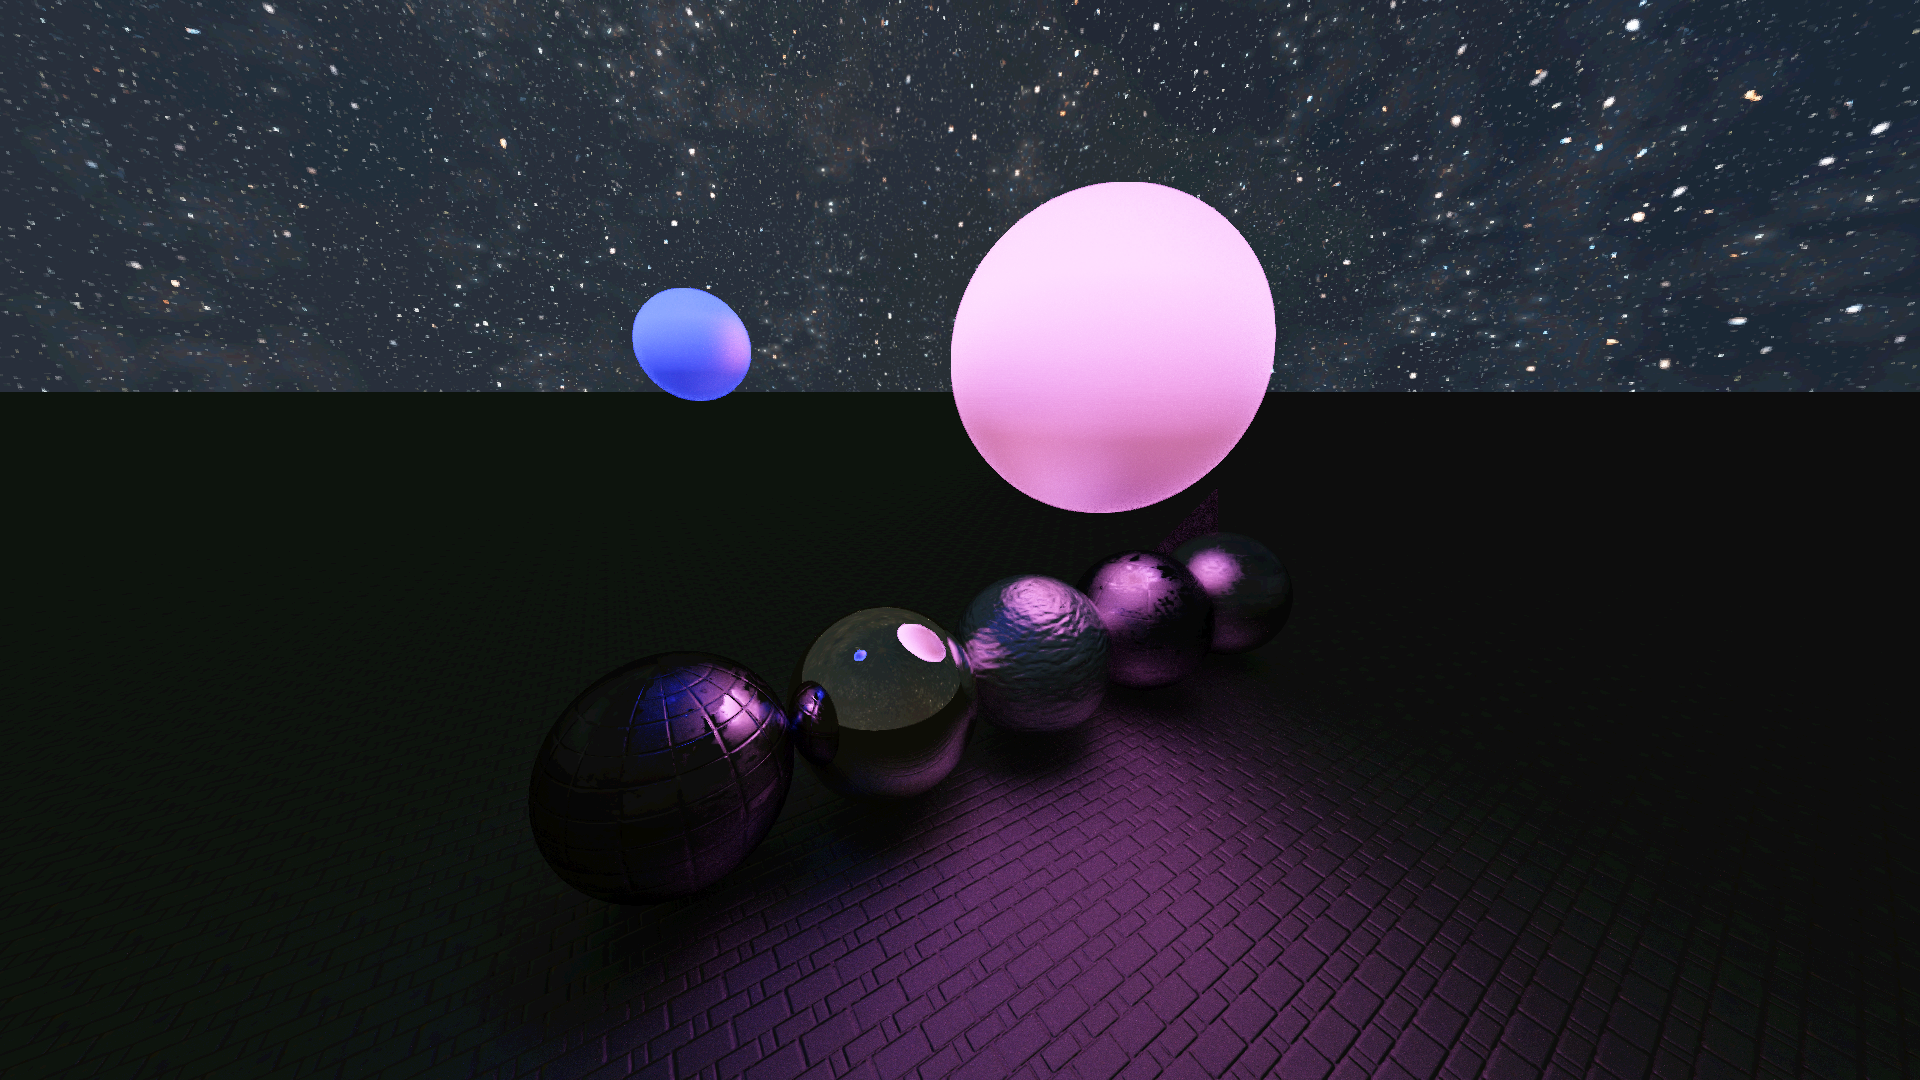
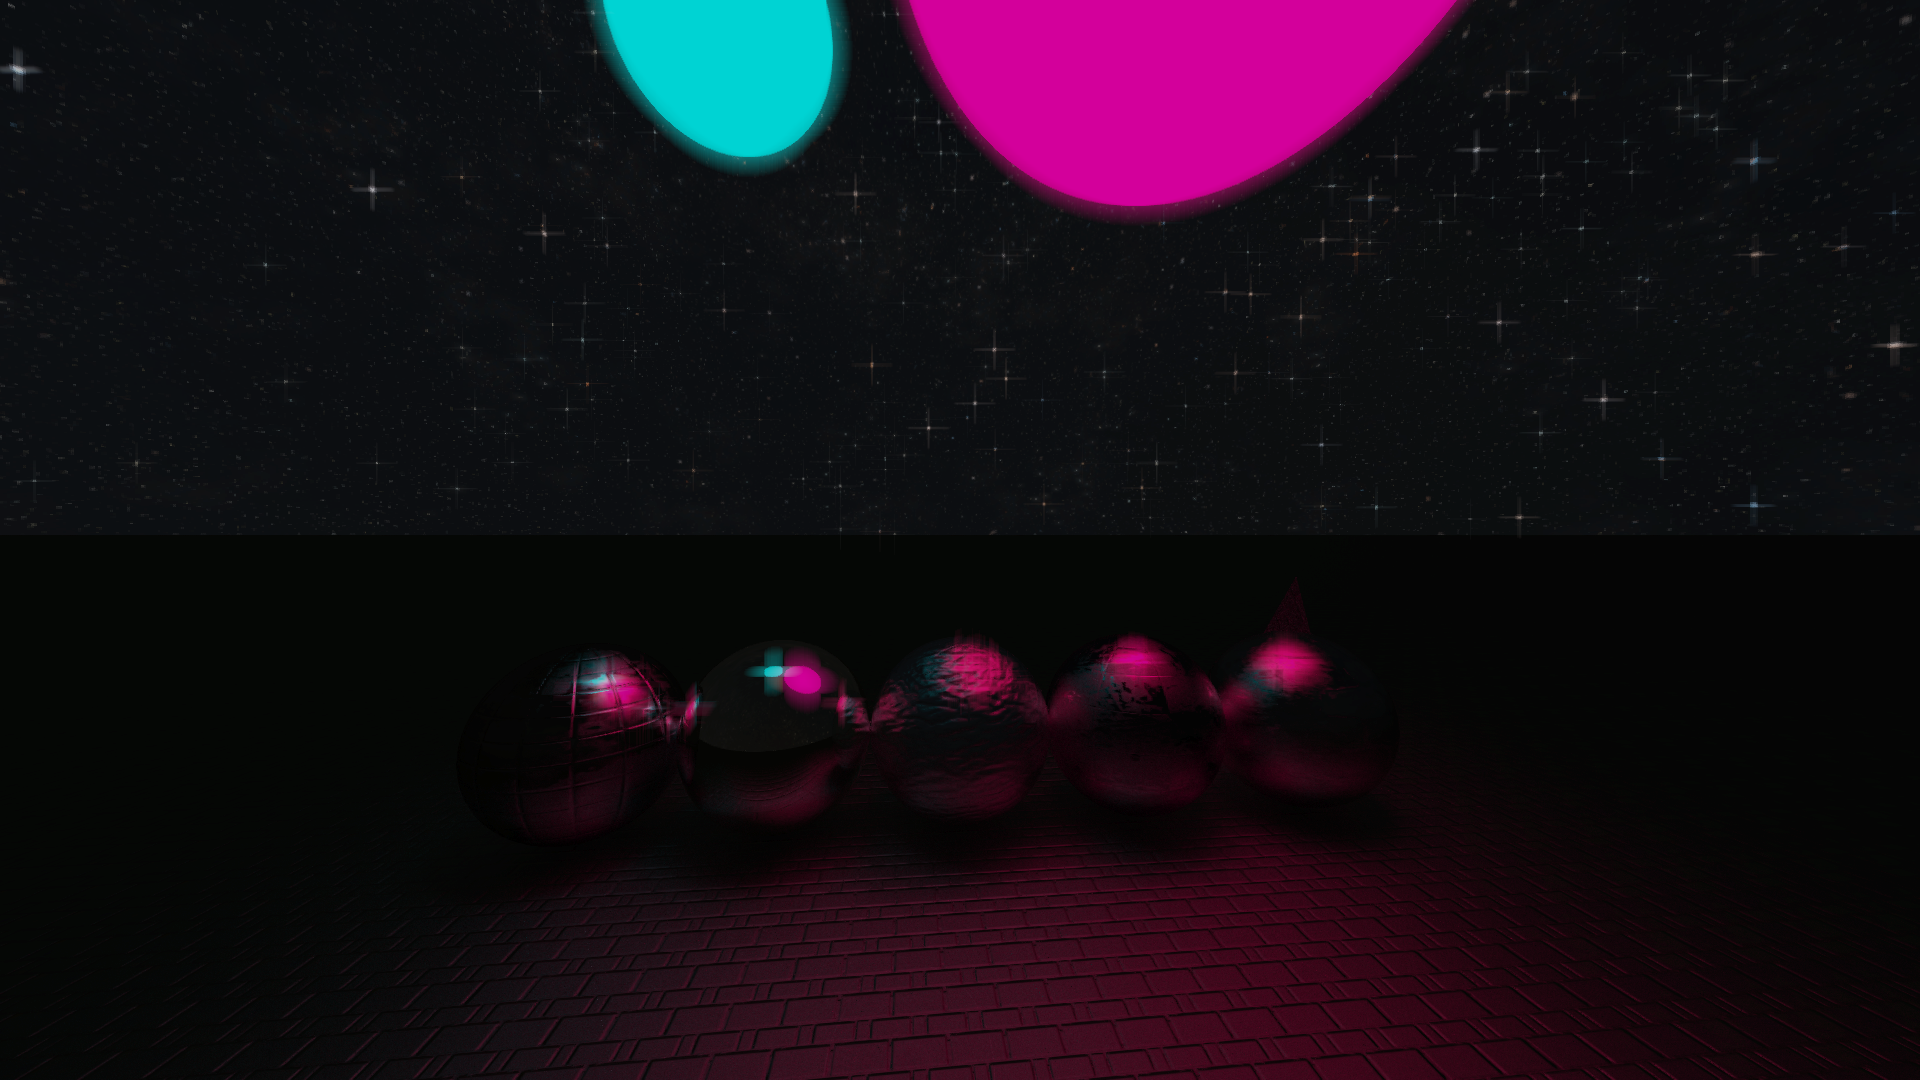
add blur

diff --git a/src/render.cpp b/src/render.cpp
@@ -35,6 +35,7 @@ namespace raytracing
   void render::clear()
   {
     mTexture.clear();
+    mBloomTexture.clear();
   }
 
   void render::draw(sf::RenderTarget* window)
@@ -46,7 +47,12 @@ namespace raytracing
     mTexture.draw(mRenderQuad, &mShader);
     mTexture.display();
 
+    mBloomShader.setUniform("renderedTexture", mTexture.getTexture());
+    mBloomTexture.draw(mRenderQuad, &mBloomShader);
+    mBloomTexture.display();
+
     mPostShader.setUniform("renderedTexture", mTexture.getTexture());
+    mPostShader.setUniform("bloomTexture", mBloomTexture.getTexture());
     window->draw(mRenderQuad, &mPostShader);
   }
 
@@ -54,9 +60,9 @@ namespace raytracing
   void render::resize(uint32_t width, uint32_t height)
   {
     if (!mTexture.resize({ width, height}))
-    {
-      std::cerr << "Failed to resize texture\n";
-    }
+      return;
+    if (!mBloomTexture.resize({ width, height}))
+      return;
     mShader.setUniform("windowSize", sf::Vector2f(static_cast<float>(width), static_cast<float>(height)));
     mShader.setUniform("halfHeight", rt::get()->mCamera.mHalfHeight);
     mShader.setUniform("halfWidth", rt::get()->mCamera.mHalfWidth);
@@ -141,6 +147,7 @@ namespace raytracing
 
     load_shader(&mShader, "./shaders/quad.vert", "./shaders/main.frag");
     load_shader(&mPostShader, "./shaders/quad.vert", "./shaders/post.frag");
+    load_shader(&mBloomShader, "./shaders/quad.vert", "./shaders/bloom.frag");
 
     return status::success;
   }

diff --git a/src/scene_serializer.cpp b/src/scene_serializer.cpp
@@ -107,6 +107,7 @@ namespace raytracing
 
           Material material {};
           material.albedo = materialNode["albedo"].as<glm::vec3>();
+          material.emissivity = materialNode["emissivity"].as<glm::vec3>();
           material.roughness = materialNode["roughness"].as<float>();
           material.textureIndex = materialNode["texture_id"].as<int>();
           material.normalTextureIndex = materialNode["normal_texture_id"].as<int>();
@@ -212,6 +213,7 @@ namespace raytracing
       {
         out << YAML::BeginMap;
         out << YAML::Key << "albedo" << YAML::Value << rt::get()->mRender.mMaterials[i].albedo;
+        out << YAML::Key << "emissivity" << YAML::Value << rt::get()->mRender.mMaterials[i].emissivity;
         out << YAML::Key << "roughness" << YAML::Value << rt::get()->mRender.mMaterials[i].roughness;
         out << YAML::Key << "texture_coordinates_multiplier" << YAML::Value << rt::get()->mRender.mMaterials[i].textureCoordinatesMultiplier;
         out << YAML::Key << "texture_id" << YAML::Value << rt::get()->mRender.mMaterials[i].textureIndex;

diff --git a/src/render.h b/src/render.h
@@ -31,8 +31,9 @@ namespace raytracing
 
   private:
     sf::Shader
-      mShader, mPostShader;
+      mShader, mPostShader, mBloomShader;
     sf::RectangleShape mRenderQuad;
+    sf::RenderTexture mBloomTexture;
     sf::RenderTexture mTexture;
 
     bool mUseFXAA = true;
